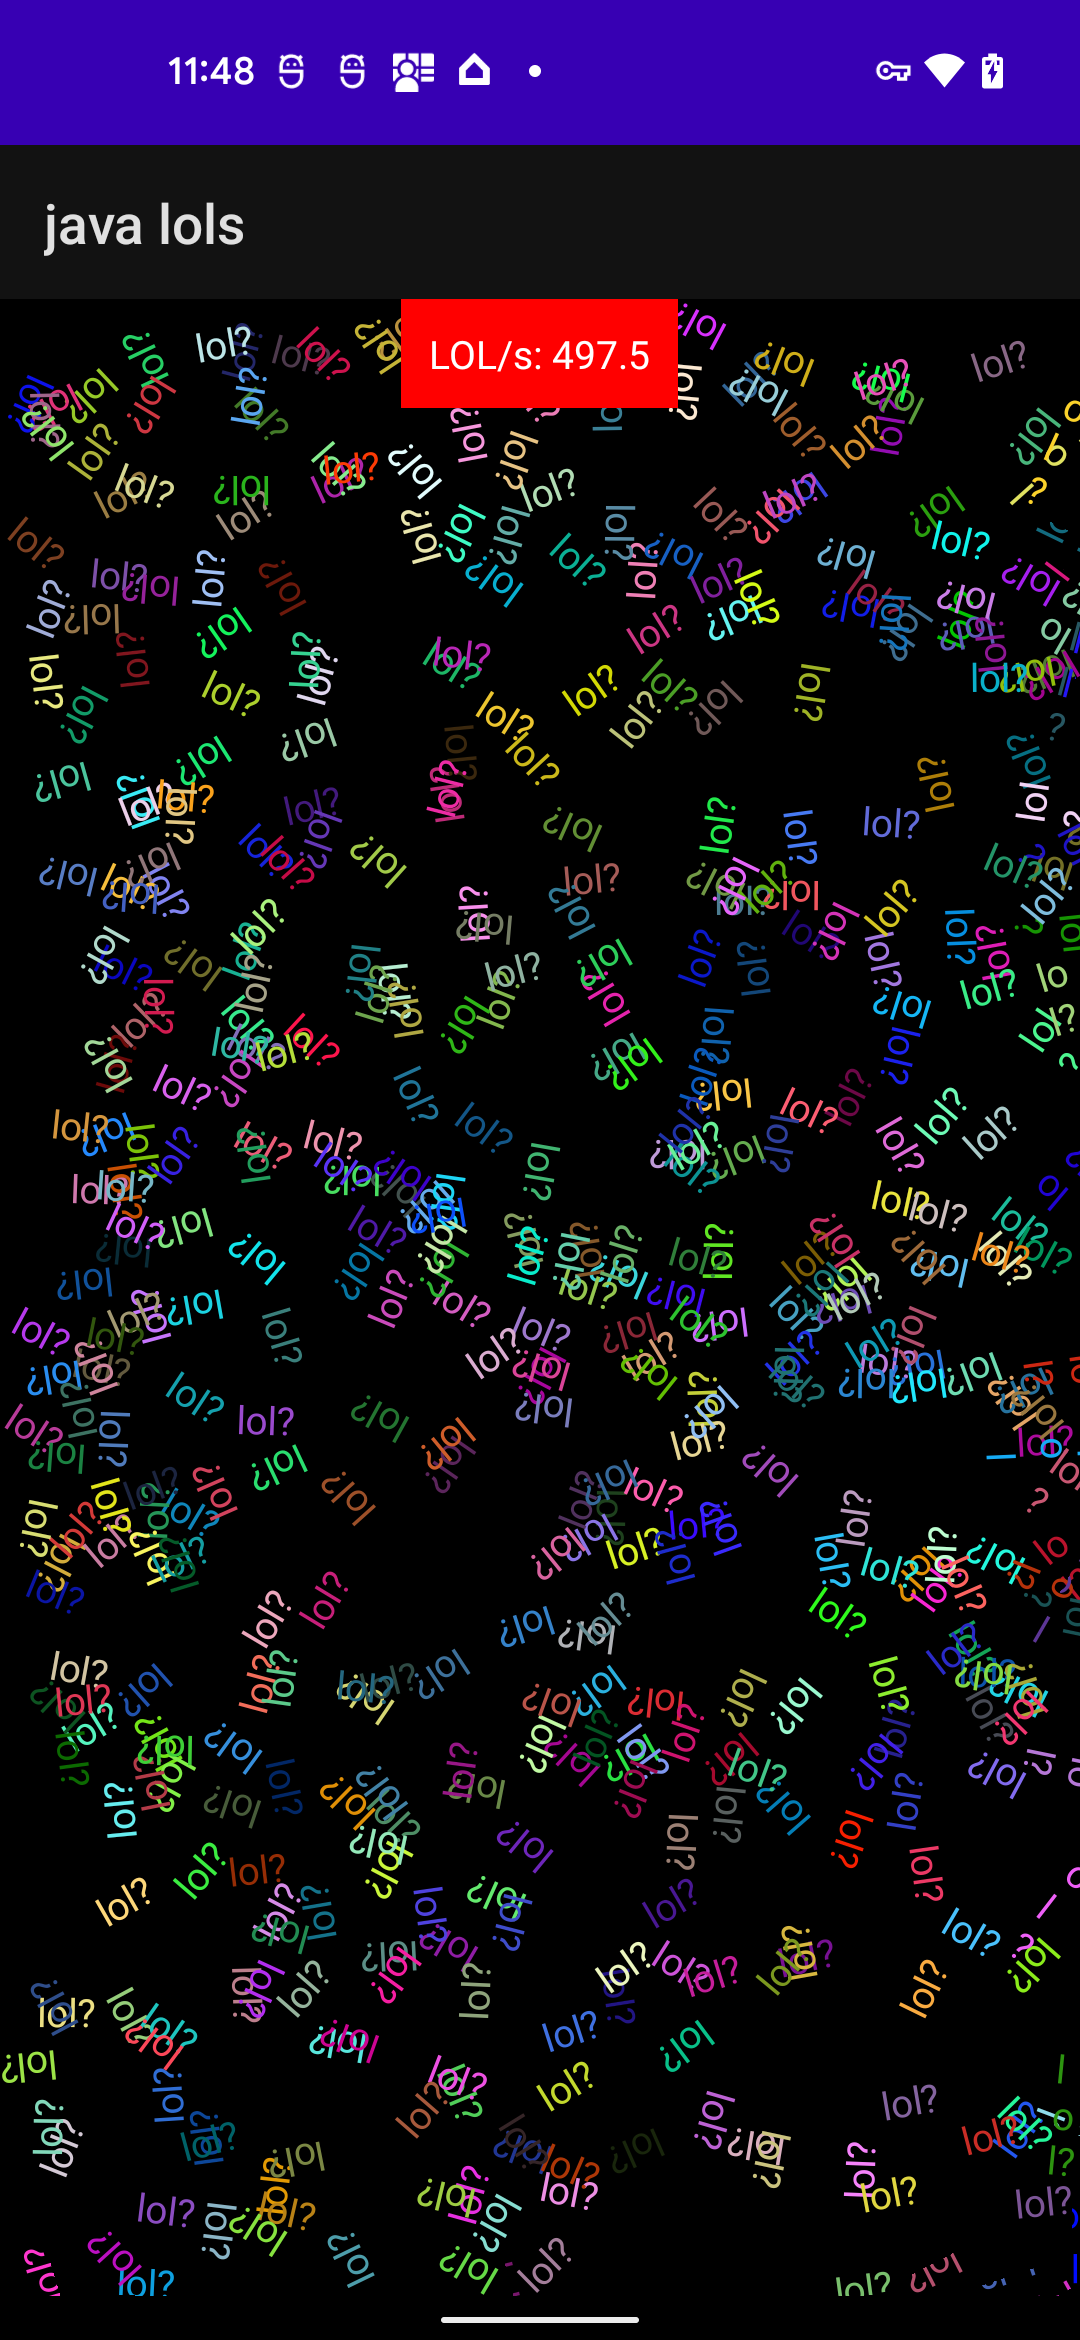
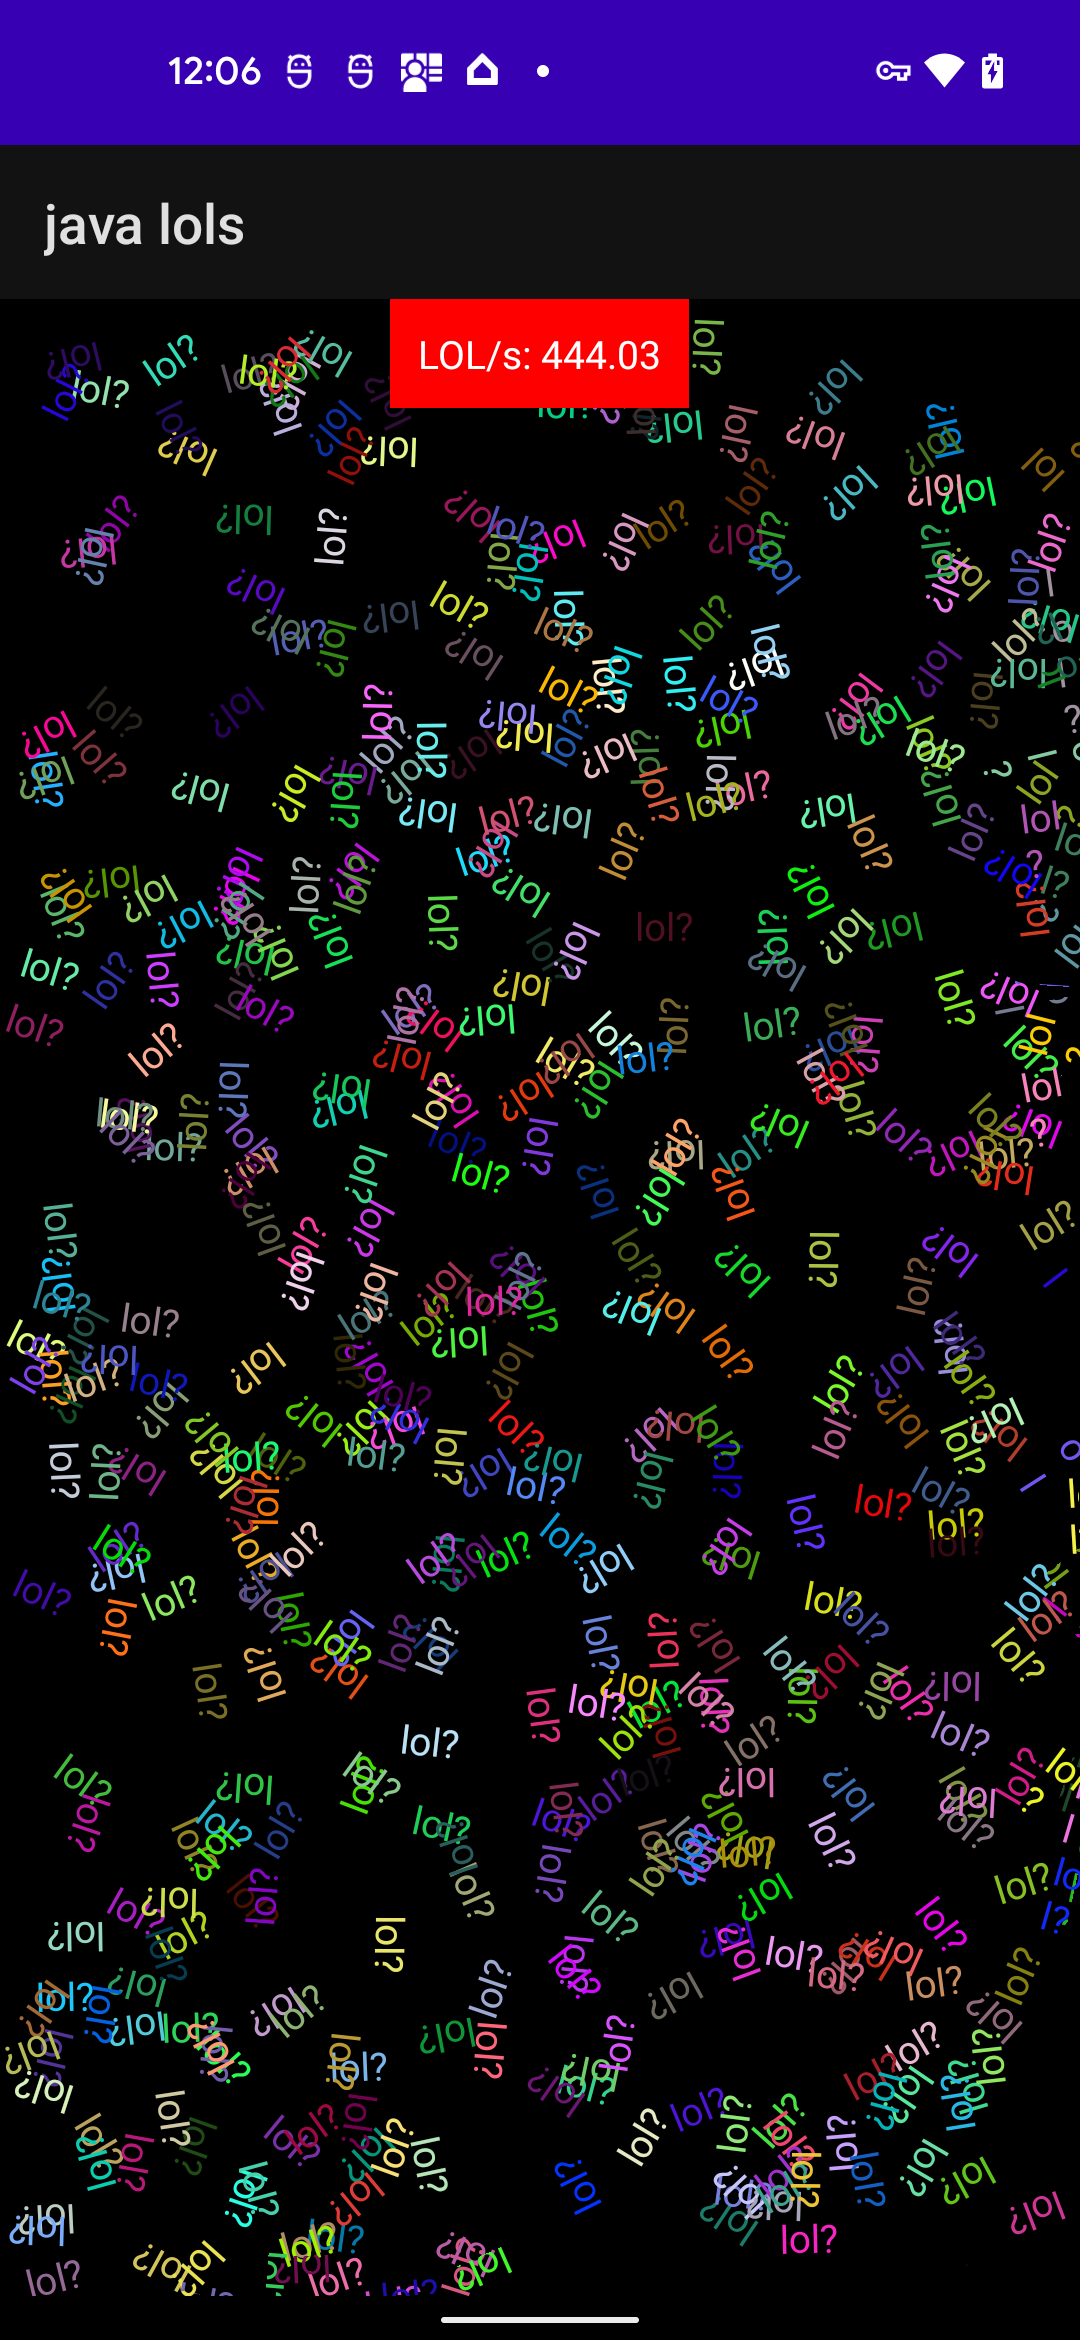
[java] better timer resolution
Before it was only 1 sec resolution, throwing us off potentially 50 LOLs/sec

diff --git a/src/java/app/src/main/java/com/microsoft/javalols/MainActivity.java b/src/java/app/src/main/java/com/microsoft/javalols/MainActivity.java
@@ -14,6 +14,7 @@ import java.time.Instant;
 import java.util.Random;
 import java.util.Timer;
 import java.util.TimerTask;
+import java.util.concurrent.TimeUnit;
 
 public class MainActivity extends AppCompatActivity {
 
@@ -23,7 +24,7 @@ public class MainActivity extends AppCompatActivity {
 	TextView lols;
 	RelativeLayout layout;
 	Timer timer;
-	Instant start;
+	long start;
 
 	@Override
 	protected void onCreate(Bundle savedInstanceState) {
@@ -40,15 +41,15 @@ public class MainActivity extends AppCompatActivity {
 			}
 		}, 0, 500);
 
-		start = Instant.now();
+		start = System.nanoTime();
 
 		Thread thread = new Thread(() -> runTest());
 		thread.start();
 	}
 
 	void onTimer() {
-		Duration duration = Duration.between(start, Instant.now());
-		double avg = (double)count / (double)duration.getSeconds();
+		double duration = (double)(System.nanoTime() - start) / 1_000_000_000;
+		double avg = (double)count / duration;
 		String text = "LOL/s: " + format.format(avg);
 		runOnUiThread(() -> lols.setText(text));
 	}
